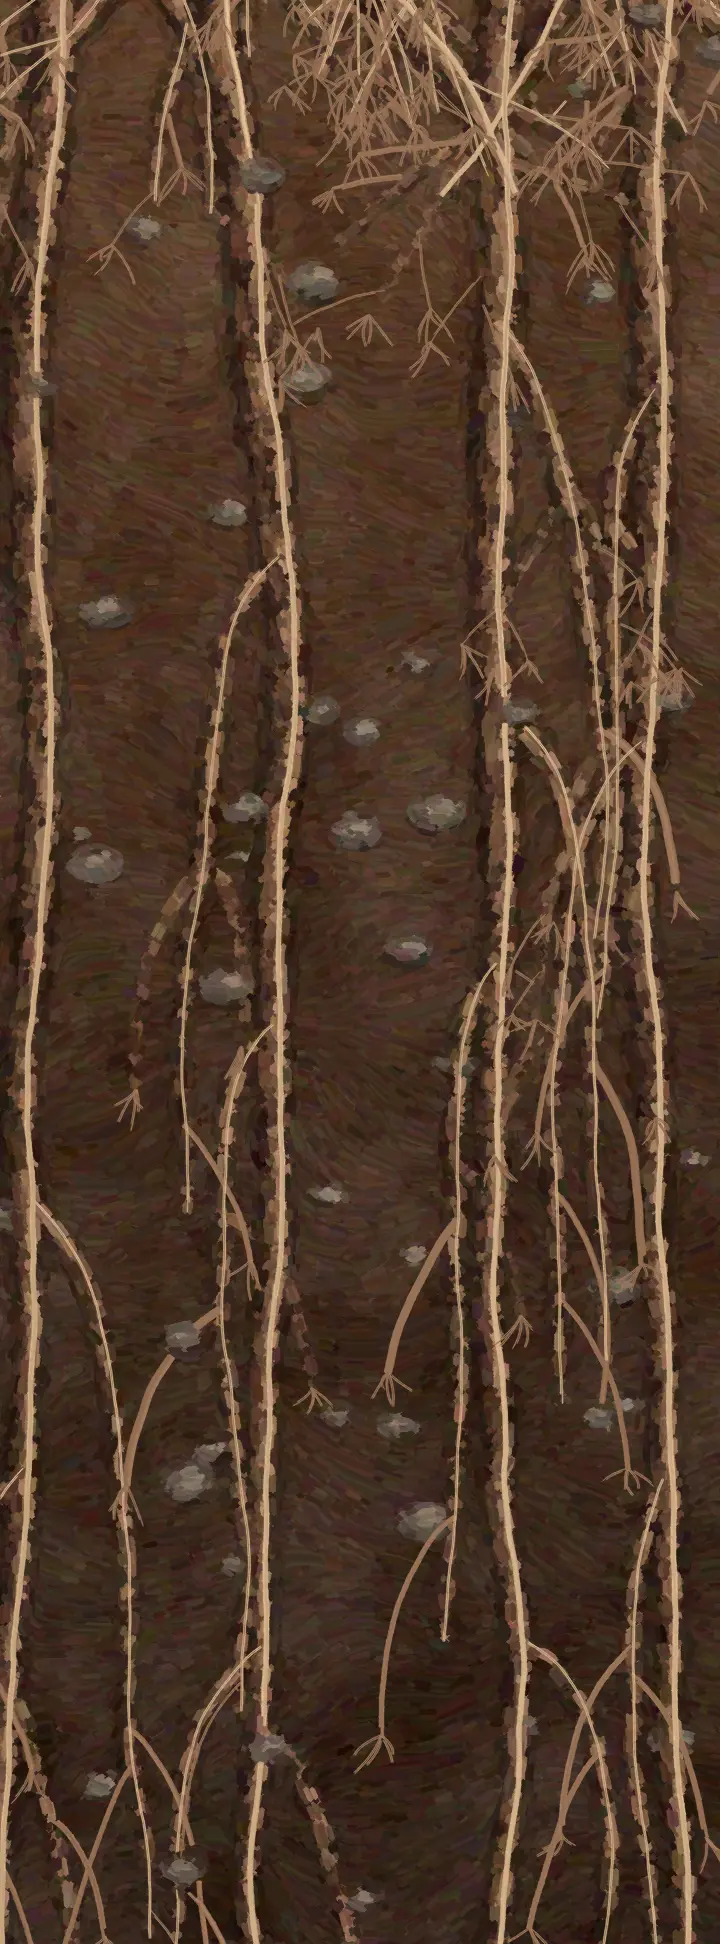
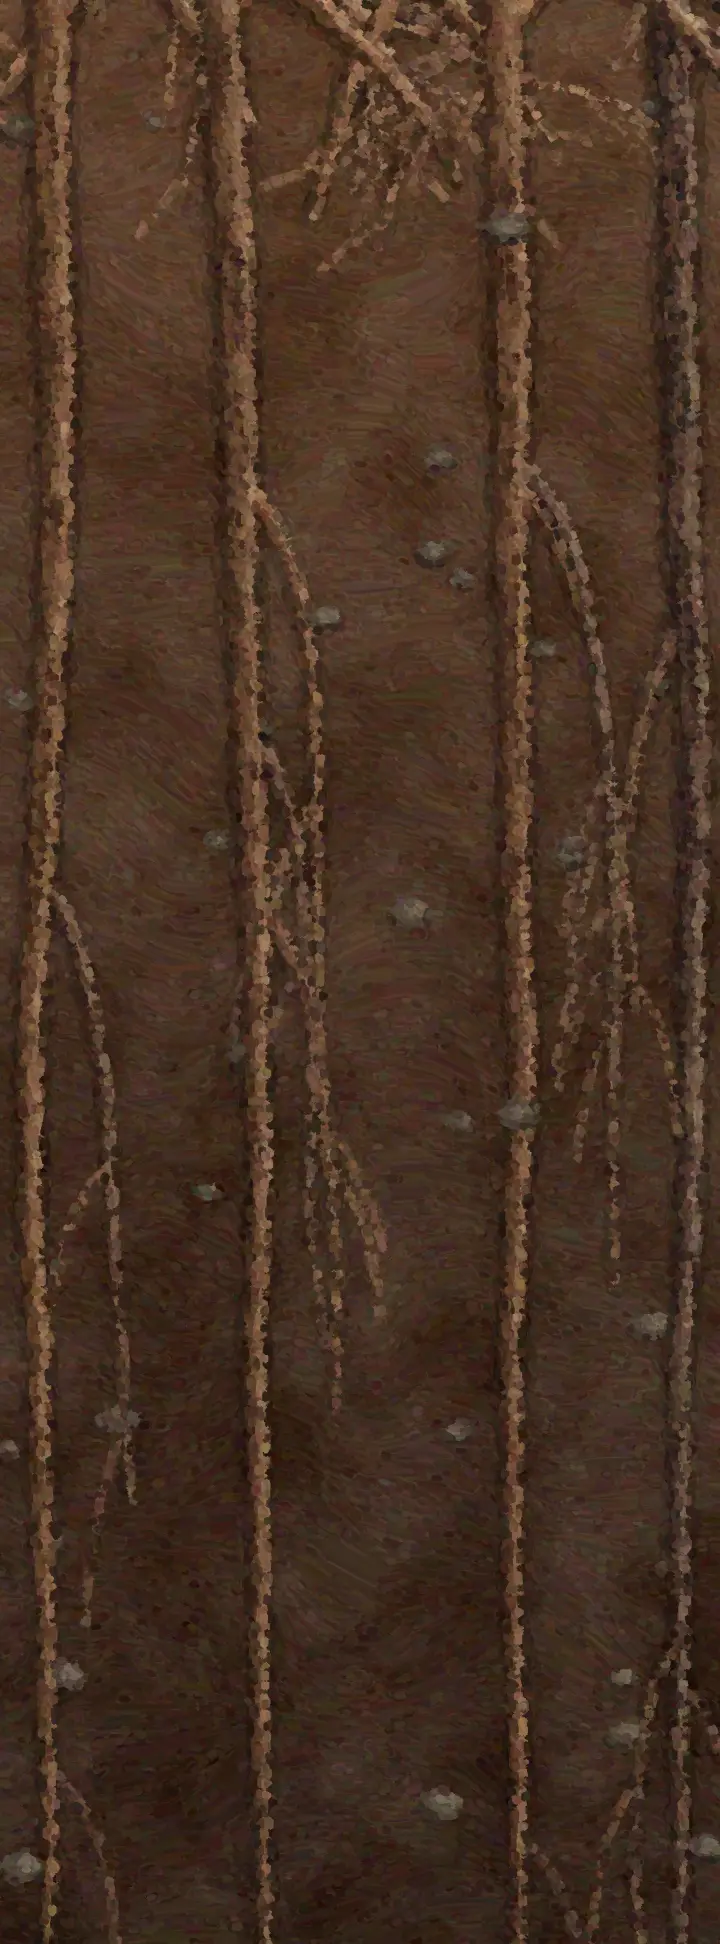
feat(landing): paint roots with the brush, not as lines; restore the Network panel
Roots, twigs and the rims of limbs were ruled lines laid over the
painting, so they read as vector art beside brushed leaves and sky.
They now go into the underdrawing and are painted by the same brush
engine: thick roots in the round, fine ones as soft streaks that fade
with depth. Paths are eased so they curve like drawn lines. Fungal
threads go on as soft light that comes and goes, with a finer last
brush layer for small forms.

Bring back the earlier Network panel ("A feed that follows your
roots").

Claude-Session: https://claude.ai/code/session_012KEDndk26D229XghHMz4Pq

diff --git a/landing/index.html b/landing/index.html
@@ -238,23 +238,27 @@
             <div class="wrap">
               <div class="win prose">
                 <p class="eyebrow">The network</p>
-                <h2 id="h-network">Built so it can't hook you.</h2>
+                <h2 id="h-network">A feed that follows your roots.</h2>
                 <p>
-                  Trees that look separate are linked underground. They pass along what the others
-                  need. Reconcile is built to pass along ideas the same way, and nothing more.
+                  Trees that look separate are linked underground. Thin threads between their roots
+                  carry water and warnings from tree to tree. Dispatches travel the same way:
+                  through the Groups you joined and the Coalitions they formed.
                 </p>
                 <ul class="plain">
                   <li>
-                    <h3>It can't mine your attention</h3>
-                    <p>We never built a way to capture it, so there is nothing to sell.</p>
+                    <h3>Votes decide what spreads</h3>
+                    <p>A Dispatch spreads because Groups voted to share it. No one can pay to push it.</p>
                   </li>
                   <li>
-                    <h3>Advertisers can't steer you</h3>
-                    <p>There are no ads, and no one can pay to push a Dispatch.</p>
+                    <h3>Nothing built to hook you</h3>
+                    <p>No ads. No like counts. No leaderboards. Reconcile runs on gifts.</p>
                   </li>
                   <li>
-                    <h3>Influencers can't game it</h3>
-                    <p>A Dispatch spreads because Groups voted for it. Never because it went viral.</p>
+                    <h3>No public map</h3>
+                    <p>
+                      Groups team up by private invitation. No one can look up who has joined with
+                      whom.
+                    </p>
                   </li>
                 </ul>
               </div>

diff --git a/landing/paint.py b/landing/paint.py
@@ -57,7 +57,7 @@ BOUGH_WOOD: Wood = (
     (170, 132, 96),
     (216, 182, 136),
 )
-FAR_WOOD: Wood = ((22, 40, 32), (32, 50, 38), (42, 62, 44), (56, 78, 52), (72, 96, 62))
+FAR_WOOD: Wood = ((22, 40, 32), (32, 50, 38), (42, 62, 44), (56, 78, 52), (60, 82, 54))
 ROOT_WOOD: Wood = (
     (50, 33, 25),
     (110, 77, 55),
@@ -65,9 +65,9 @@ ROOT_WOOD: Wood = (
     (172, 134, 102),
     (204, 170, 132),
 )
+SOIL_DEEP: Color = (62, 43, 32)
 LIGHT = np.array([0.5, -0.86])  # the sun is up and to the right
 THREAD: Color = (238, 222, 172)
-THREAD_DIM: Color = (176, 152, 108)
 GLOW: Color = (255, 190, 92)
 RAY: Color = (255, 244, 196)
 GROUND_TONE: Color = (150, 112, 82)  # the toned ground that shows between strokes
@@ -121,6 +121,12 @@ def bezier(p0: np.ndarray, ctrl: np.ndarray, p1: np.ndarray, n: int = 24) -> np.
     return (1 - t) ** 2 * p0 + 2 * (1 - t) * t * ctrl + t**2 * p1
 
 
+def toward(col: Color, other: Color, share: float) -> Color:
+    """Return ``col`` mixed ``share`` of the way toward ``other``."""
+    mixed = [round(c + (o - c) * share) for c, o in zip(col, other, strict=True)]
+    return (mixed[0], mixed[1], mixed[2])
+
+
 def pt(p: np.ndarray | tuple[float, float]) -> tuple[int, int]:
     """Round a point to whole pixels, as OpenCV wants it."""
     return round(float(p[0])), round(float(p[1]))
@@ -141,8 +147,8 @@ class Habit:
 
 
 BOUGH = Habit(0.085, None, 0.0, 4, (0.45, 0.95), (0.3, 0.5), 0.5, 2.0)
-SINKER = Habit(0.07, 1.57, 0.1, 4, (0.6, 1.15), (0.22, 0.36), 0.46, 2.6)
-LATERAL = Habit(0.11, 1.57, 0.022, 3, (0.4, 0.95), (0.35, 0.55), 0.5, 2.6)
+SINKER = Habit(0.04, 1.57, 0.1, 3, (0.6, 1.15), (0.22, 0.36), 0.46, 2.6)
+LATERAL = Habit(0.06, 1.57, 0.022, 2, (0.4, 0.95), (0.35, 0.55), 0.5, 2.6)
 HYPHA = Habit(0.35, None, 0.0, 2, (0.4, 1.0), (0.4, 0.7), 0.8, 0.9)
 
 
@@ -185,6 +191,7 @@ class Scene:
         self.ref = np.zeros((self.h, self.w, 3), np.uint8)
         self.rays = np.zeros((self.h, self.w), np.float32)
         self.glow = np.zeros((self.h, self.w), np.float32)
+        self.strands = np.zeros((self.h, self.w), np.float32)  # threads, as light
         self.angle = np.zeros((self.h, self.w), np.float32)
         self.over = np.zeros((self.h, self.w), np.uint8)  # what sits in front of lines
         self.tree_x = [f * self.w for f in self.lay.trees]
@@ -274,7 +281,10 @@ class Scene:
                 heading += (pull - heading) * rate
             step = np.array([math.cos(heading), math.sin(heading)]) * length / steps
             points.append(points[-1] + step)
-        return np.array(points)
+        path = np.array(points)
+        for _ in range(2):  # ease the kinks out, so it curves like a drawn line
+            path[1:-1] = (path[:-2] + path[1:-1] + path[2:]) / 3
+        return path
 
     def grow(
         self,
@@ -287,7 +297,7 @@ class Scene:
     ) -> list[Limb]:
         """Grow a limb from ``start`` and everything that forks off it."""
         path = self.wander(start, heading, length, habit.turn, habit.pull, habit.rate)
-        tip = max(wide * 0.3, 1.1 * self.u)
+        tip = max(wide * 0.14, 1.1 * self.u)
         limbs = [Limb(path, wide, tip, depth)]
         if depth >= 4 or wide * habit.thin < habit.finest * self.u:
             return limbs
@@ -306,27 +316,26 @@ class Scene:
             )
         return limbs
 
-    def wood(self, limb: Limb, pal: Wood, rim: bool = True) -> None:
-        """Draw a limb in the round: shadow underneath, light along the sunward side."""
+    def wood(self, limb: Limb, pal: Wood) -> None:
+        """Draw a limb in the round: shadow underneath, light along the sunward side.
+
+        Everything goes into the underdrawing, so the brush paints it like the
+        rest of the picture. Nothing here is a ruled line.
+        """
         path = limb.path
         widths = np.linspace(limb.w0, limb.w1, len(path))
         along = np.gradient(path, axis=0)
         along /= np.linalg.norm(along, axis=1, keepdims=True) + 1e-6
         across = np.stack([-along[:, 1], along[:, 0]], axis=1)
-        facing = (
-            across @ LIGHT
-        )  # how squarely this stretch faces the sun, and which side
+        facing = across @ LIGHT  # how squarely each stretch faces the sun
         lit = across * facing[:, None] * widths[:, None] * 1.25
-        bands = ((-0.26, 1.0), (0.0, 0.86), (0.2, 0.5), (0.34, 0.24))
-        for (shift, part), col in zip(bands, pal, strict=False):
+        bands = ((-0.26, 1.0), (0.0, 0.86), (0.2, 0.5), (0.34, 0.24), (0.44, 0.1))
+        for (shift, part), col in zip(bands, pal, strict=True):
             pts = path + lit * shift
             for i in range(len(path) - 1):
                 thick = max(1, round(widths[i] * part))
                 cv2.line(self.ref, pt(pts[i]), pt(pts[i + 1]), col, thick, cv2.LINE_AA)
         self.grain(path, widths, across * np.sign(facing)[:, None], pal)
-        if rim and limb.w0 > 9 * self.u:
-            edge = max(1.1 * self.u, limb.w0 * 0.07)
-            self.details.append(Detail(path + lit * 0.44, pal[4], edge))
 
     def grain(
         self, path: np.ndarray, widths: np.ndarray, sunward: np.ndarray, pal: Wood
@@ -368,13 +377,38 @@ class Scene:
         band = self.ref[y0:y1].astype(np.float32) * (1 - strength * mask)[:, :, None]
         self.ref[y0:y1] = band.astype(np.uint8)
 
-    def timber(self, limbs: list[Limb], pal: Wood, fine: Color) -> None:
-        """Draw a whole tree of limbs, thinnest first so the joints close over."""
+    def timber(
+        self,
+        limbs: list[Limb],
+        pal: Wood,
+        fine: Color,
+        sink: tuple[float, float] | None = None,
+    ) -> None:
+        """Draw a whole tree of limbs, thinnest first so the joints close over.
+
+        ``sink`` is a pair of rows: limbs fade toward the color of deep soil as
+        they go from the first to the second, the way edges are lost in the
+        distance. The finest limbs are only suggested: a soft streak for the
+        brush to pick up, never a ruled line.
+        """
         for limb in sorted(limbs, key=lambda limb: limb.w0):
+            fade = 0.0
+            if sink is not None:
+                depth = (limb.path[:, 1].mean() - sink[0]) / (sink[1] - sink[0])
+                fade = 0.15 + float(np.clip(depth, 0, 1)) * 0.5
+            warm = int(self.rng.integers(-10, 11))  # no two limbs quite one color
+            tones = [toward(col, SOIL_DEEP, fade) for col in (*pal, fine)]
+            tones = [(c[0] + warm, c[1] + warm // 2, c[2]) for c in tones]
             if limb.w0 < 4.5 * self.u:
-                self.details.append(Detail(limb.path, fine, limb.w0))
+                self.streak(limb.path, tones[5], limb.w0)
             else:
-                self.wood(limb, pal)
+                self.wood(limb, (tones[0], tones[1], tones[2], tones[3], tones[4]))
+
+    def streak(self, path: np.ndarray, col: Color, wide: float) -> None:
+        """Suggest a fine limb: a soft mark in the underdrawing, for the brush."""
+        line = [np.round(path).astype(np.int32)]
+        thick = max(1, round(max(wide, 3 * self.u)))
+        cv2.polylines(self.ref, line, False, col, thick, cv2.LINE_AA)
 
     def spray(self, center: np.ndarray, count: int, size: tuple[float, float]) -> None:
         """A bunch of leaves in front of whatever is there."""
@@ -483,7 +517,7 @@ class Scene:
         self.leaf_mass(y0, y1, 1500, light)
         for limb in self.boughs(y0, y1, (24, 36)):  # limbs further back, lost in shade
             if limb.w0 > 5 * u:
-                self.wood(limb, FAR_WOOD, rim=False)
+                self.wood(limb, FAR_WOOD)
         self.leaf_mass(y0, y1, 3400, light)
         near = self.boughs(y0, y1, (54, 76))
         self.shade_under(near, (y0, y1), (-0.5, 0.6), 0.45)
@@ -715,16 +749,13 @@ class Scene:
         self.mottle(y0, y1, 150 * u, 9)
         self.mottle(y0, y1, 36 * u, 6)
         self.set_angle(y0, y1, 0.0, 0.7)
-        stones = round(14 * (y1 - y0) * self.w / (u * u * 900_000))
+        stones = round(9 * (y1 - y0) * self.w / (u * u * 900_000))
         for _ in range(stones):
             self.stone(self.r(0, self.w), self.r(y0, y1), self.r(12, 34) * u)
         limbs = self.roots()
         reach = self.tops[4] + int(0.12 * (self.tops[5] - self.tops[4]))
         self.shade_under(limbs, (self.turf, reach), (-0.12, 0.34), 0.5)
-        self.timber(limbs, ROOT_WOOD, ROOTLET)
-        for limb in limbs:
-            if limb.w0 < 7 * u:
-                self.root_hairs(limb.path[-1])
+        self.timber(limbs, ROOT_WOOD, ROOTLET, sink=(self.turf, reach))
         for _ in range(stones // 2):  # and a few stones the roots pass behind
             spot = (self.r(0, self.w), self.r(y0, y1))
             self.stone(spot[0], spot[1], self.r(12, 30) * u, over=True)
@@ -747,20 +778,12 @@ class Scene:
                 limbs += self.grow(start, aim, reach, wide, LATERAL)
         return limbs
 
-    def root_hairs(self, tip: np.ndarray) -> None:
-        """Fray the end of a fine root into hairs."""
-        u = self.u
-        for _ in range(5):
-            end = tip + np.array([self.r(-34, 34) * u, self.r(14, 52) * u])
-            bend = (tip + end) / 2 + np.array([self.r(-12, 12) * u, 0])
-            self.details.append(Detail(bezier(tip, bend, end, 7), ROOTLET, 1.3 * u))
-
     def stone(self, x: float, y: float, rad: float, over: bool = False) -> None:
         """A buried stone, lit on its upper right. ``over``: in front of the roots."""
         self.ellipse((x, y + rad * 0.14), rad, rad * 0.62, (48, 36, 28))
-        self.ellipse((x, y), rad * 0.94, rad * 0.56, (98, 84, 72))
+        self.ellipse((x, y), rad * 0.94, rad * 0.56, (84, 70, 58))
         lit = (x + rad * 0.2, y - rad * 0.14)
-        self.ellipse(lit, rad * 0.5, rad * 0.24, (138, 122, 104))
+        self.ellipse(lit, rad * 0.5, rad * 0.24, (112, 98, 82))
         if over:
             axes = (max(1, round(rad)), max(1, round(rad * 0.62)))
             cv2.ellipse(self.over, pt((x, y)), axes, 0, 0, 360, 1, -1)
@@ -782,27 +805,27 @@ class Scene:
             mid = (nodes[a] + nodes[b]) / 2
             bend = (nodes[b] - nodes[a])[::-1] * [-1, 1] * self.r(-0.34, 0.34)
             path = bezier(nodes[a], mid + bend, nodes[b], 14)
-            self.thread(path, THREAD, 1.2 * u, 0.45)
+            self.thread(path, 1.4 * u, 0.9)
         for node in nodes:  # finer hyphae, forking as they feel their way out
             reach = self.r(70, 170) * u
             for limb in self.grow(node, self.r(0, 6.28), reach, 1.6 * u, HYPHA):
-                self.thread(limb.path, THREAD_DIM, limb.w0 * 0.7, 0.14)
+                self.thread(limb.path, limb.w0 * 0.7, 0.42)
         for i, node in enumerate(nodes):
-            rad = (5 if i % 4 == 0 else 2.6) * u
+            rad = (4 if i % 4 == 0 else 2.2) * u
+            cv2.circle(self.strands, pt(node), max(1, round(rad)), 1.0, -1, cv2.LINE_AA)
             cv2.circle(
-                self.glow, pt(node), max(1, round(rad * 1.8)), 1.0, -1, cv2.LINE_AA
+                self.glow, pt(node), max(1, round(rad * 2)), 1.0, -1, cv2.LINE_AA
             )
-            dot = np.array([node, node + np.array([0.6, 0.0])])
-            self.details.append(Detail(dot, (255, 240, 190), rad))
+        # Let the threads come and go, as a painter loses and finds an edge.
+        self.strands[y0:y1] *= 0.3 + 0.7 * self.noise(y0, y1, 70 * u)
         self.glow = cv2.GaussianBlur(self.glow, (0, 0), 9 * u)
 
-    def thread(self, path: np.ndarray, col: Color, wide: float, shine: float) -> None:
-        """Lay one fungal thread, and let it give off a little light."""
-        self.details.append(Detail(path, col, wide))
+    def thread(self, path: np.ndarray, wide: float, shine: float) -> None:
+        """Lay one fungal thread as light: a soft strand, and a glow around it."""
         line = [np.round(path).astype(np.int32)]
-        cv2.polylines(
-            self.glow, line, False, shine, max(1, round(wide * 2)), cv2.LINE_AA
-        )
+        thick = max(1, round(wide * 1.6))
+        cv2.polylines(self.strands, line, False, shine, thick, cv2.LINE_AA)
+        cv2.polylines(self.glow, line, False, shine * 0.5, thick * 2, cv2.LINE_AA)
 
     def web_nodes(self, band: tuple[float, float]) -> list[np.ndarray]:
         """Scatter the network's meeting points below the root tips, kept apart."""
@@ -814,7 +837,8 @@ class Scene:
                     [dx * u + self.r(-14, 14) * u, self.r(70, 150) * u]
                 )
                 ctrl = tip + np.array([dx * 0.4 * u, 60 * u])
-                self.details.append(Detail(bezier(tip, ctrl, end, 10), ROOT, 3.4 * u))
+                tone = toward(ROOT, SOIL_DEEP, 0.3)
+                self.streak(bezier(tip, ctrl, end, 10), tone, 4.5 * u)
                 nodes.append(end)
         top = band[0] + 0.18 * (band[1] - band[0])
         target = len(nodes) + round(70 * self.w * (band[1] - top) / (u * u * 640_000))
@@ -856,7 +880,13 @@ class Painter:
     def paint(self) -> np.ndarray:
         """Paint every layer, coarse to fine, then finish and return the picture."""
         u = self.scene.u
-        layers = ((30, 10, 3, 0), (15, 8, 2, 30), (7.5, 6, 2, 26), (3.6, 5, 1, 24))
+        layers = (
+            (30, 10, 3, 0),
+            (15, 8, 2, 30),
+            (7.5, 6, 2, 26),
+            (3.6, 5, 1, 24),
+            (2.2, 4, 1, 22),
+        )
         for radius, longest, shortest, tolerance in layers:
             self.layer(max(radius * u, 1.5), longest, shortest, tolerance)
         for detail in self.scene.details:
@@ -995,6 +1025,11 @@ class Painter:
         ):
             cover = np.clip(light * amount, 0, 1)[:, :, None]
             out += cover * (np.array(tint, np.float32) - out) * 0.9
+        # The fungal threads go on as light, broken up by the paint under them.
+        weave = 0.5 + cv2.GaussianBlur(self.height, (0, 0), 1.0)
+        soft = cv2.GaussianBlur(self.scene.strands, (0, 0), 0.9 * self.scene.u)
+        strand = np.clip(soft * weave * 1.5, 0, 1)[:, :, None]
+        out += strand * (np.array(THREAD, np.float32) - out) * 0.85
         return np.clip(out, 0, 255).astype(np.uint8)
 
 

diff --git a/landing/README.md b/landing/README.md
@@ -40,9 +40,10 @@ Keep it there when you edit.
 1. **Compose.** It blocks in one tall picture in flat color: the underdrawing.
 2. **Paint.** It covers a toned ground with strokes that follow the underdrawing, big brushes
    first, then finer ones only where the picture still differs from it. Each stroke is a bundle of
-   bristles of slightly different color, so it streaks like gouache. Fine lines (twigs, grass,
-   root hairs, fungal threads) go on last, and the sunbeams and the network's glow are glazed over
-   the top.
+   bristles of slightly different color, so it streaks like gouache. Branches, twigs and roots are
+   part of the underdrawing, so the brush paints them like everything else; none of them is a
+   ruled line. Only grass and ferns go on last with a fine brush. The sunbeams, the fungal threads
+   and their glow are laid over the top as light.
 3. **Cut.** It slices the tall picture into a piece per page section.
 
 ```bash
